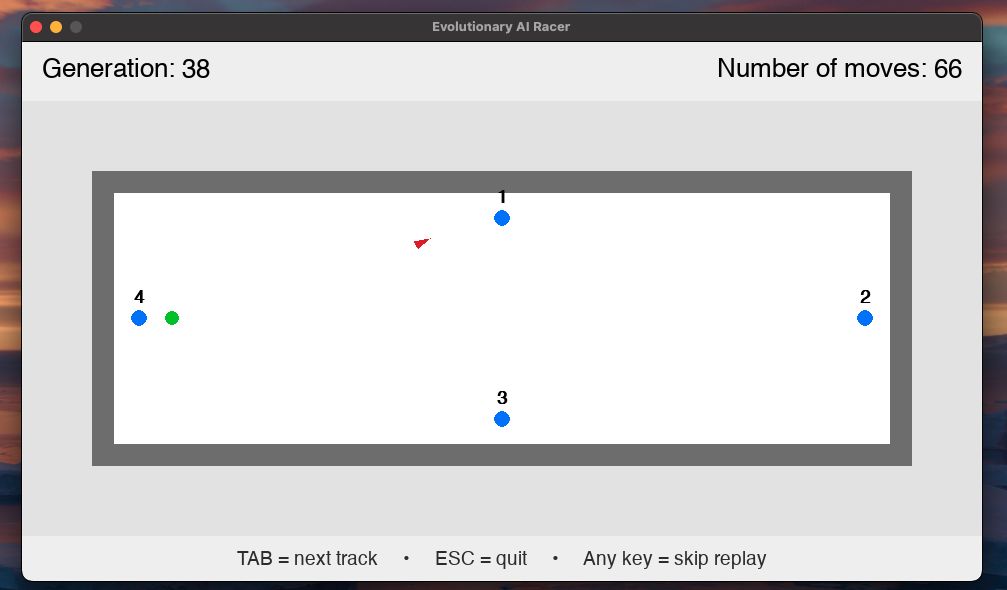
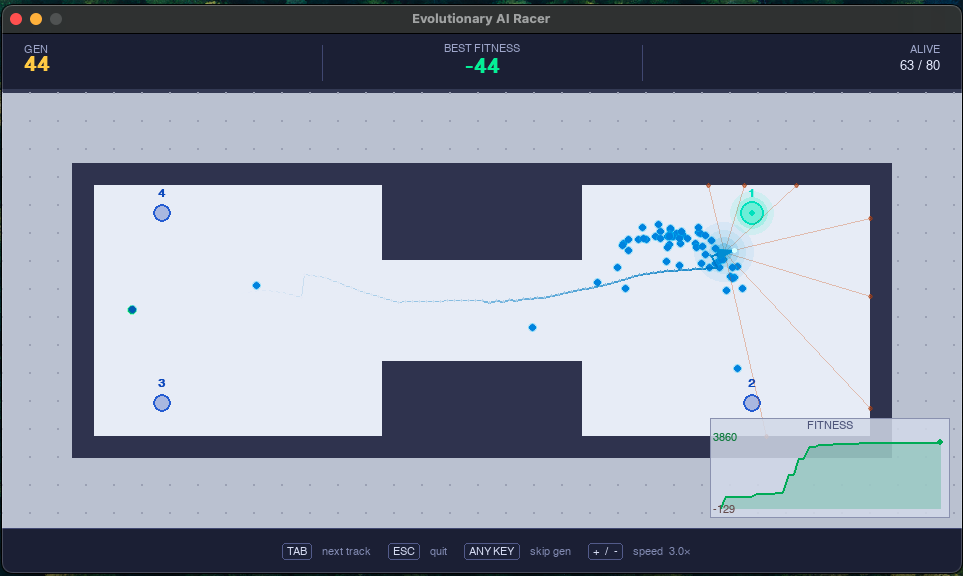
Rework UI to light theme with improved contrast and speed control

diff --git a/simulator.py b/simulator.py
@@ -2,6 +2,7 @@
 
 import math
 import pygame
+import pygame.gfxdraw
 from car import Car
 from config import (
     DT, REPLAY_FPS, MAX_SPEED, SIM_STEPS,
@@ -15,17 +16,17 @@ from config import (
 TOP_BAR_HEIGHT    = 60
 BOTTOM_BAR_HEIGHT = 45
 
-TOP_BAR_BG    = (9, 10, 20)
-BOTTOM_BAR_BG = (9, 10, 20)
-ACCENT_LINE   = (45, 48, 75)
+TOP_BAR_BG    = (30, 34, 60)
+BOTTOM_BAR_BG = (30, 34, 60)
+ACCENT_LINE   = (75, 80, 125)
 
-BEST_CAR_COLOR = (0, 200, 255)    # electric cyan
-TRAIL_COLOR    = (0, 160, 210)
+BEST_CAR_COLOR = (0, 150, 220)    # electric blue
+TRAIL_COLOR    = (0, 120, 200)
 
-TEXT_LIGHT  = (215, 220, 235)
-TEXT_MUTED  = (90, 95, 130)
-TEXT_ACCENT = (60, 240, 160)      # fitness
-TEXT_GEN    = (255, 200, 60)      # generation
+TEXT_LIGHT  = (235, 238, 255)
+TEXT_MUTED  = (170, 175, 210)
+TEXT_ACCENT = (50, 240, 155)      # fitness
+TEXT_GEN    = (255, 210, 55)      # generation
 
 MAX_TRAIL_LENGTH = 260
 
@@ -56,8 +57,8 @@ def nn_forward(genome, inputs):
 # ============================================================
 #  FULL POPULATION — LIVE SIMULATION + EVALUATION
 # ============================================================
-GHOST_COLOR      = (0, 55, 80)    # dim cyan for non-best alive cars
-GHOST_COLOR_FAST = (0, 90, 120)   # slightly brighter when moving well
+GHOST_COLOR      = (30, 100, 190)  # blue, visible on light track
+GHOST_COLOR_FAST = (40, 140, 230)  # brighter when moving well
 SIM_SPEED_MULT   = 3.0            # run sim at 3× real time (~33 sec/generation)
 
 
@@ -77,7 +78,12 @@ def _car_fitness(car, steps_alive, track):
 
 def _draw_ghost_car(surface, car):
     color = GHOST_COLOR_FAST if car.speed > 3.0 else GHOST_COLOR
-    pygame.draw.circle(surface, color, (int(car.x), int(car.y)), 2)
+    x, y = int(car.x), int(car.y)
+    pygame.gfxdraw.filled_circle(surface, x, y, 3, color)
+    pygame.gfxdraw.aacircle(surface, x, y, 3, color)
+    # Subtle outline so ghost cars read against dark asphalt
+    outline = (color[0], min(255, color[1] + 60), min(255, color[2] + 60))
+    pygame.gfxdraw.aacircle(surface, x, y, 4, (*outline, 80))
 
 
 def simulate_population_visual(screen, clock, track, population, generation, best_history):
@@ -93,13 +99,14 @@ def simulate_population_visual(screen, clock, track, population, generation, bes
     font_sm = pygame.font.SysFont("Helvetica", 13)
     font_xs = pygame.font.SysFont("Helvetica", 11)
 
-    step     = 0
-    time_acc = 0.0
-    skipped  = False
+    step      = 0
+    time_acc  = 0.0
+    skipped   = False
+    sim_speed = SIM_SPEED_MULT
 
     while step < SIM_STEPS:
         dt_real   = clock.tick(REPLAY_FPS) / 1000.0
-        time_acc += dt_real * SIM_SPEED_MULT
+        time_acc += dt_real * sim_speed
 
         # ── EVENTS ──────────────────────────────────────────────
         for event in pygame.event.get():
@@ -113,6 +120,10 @@ def simulate_population_visual(screen, clock, track, population, generation, bes
                 if event.key == pygame.K_TAB:
                     pygame.event.post(event)
                     skipped = True
+                elif event.key in (pygame.K_PLUS, pygame.K_EQUALS, pygame.K_KP_PLUS):
+                    sim_speed = min(10.0, round(sim_speed + 0.5, 1))
+                elif event.key in (pygame.K_MINUS, pygame.K_KP_MINUS):
+                    sim_speed = max(0.5, round(sim_speed - 0.5, 1))
                 else:
                     skipped = True
 
@@ -157,7 +168,7 @@ def simulate_population_visual(screen, clock, track, population, generation, bes
         live_fitness = _car_fitness(best_car, steps_alive[best_idx], track)
 
         # ── DRAW ────────────────────────────────────────────────
-        screen.fill((7, 8, 18))
+        screen.fill((195, 200, 215))
 
         # Top bar
         pygame.draw.rect(screen, TOP_BAR_BG,
@@ -165,21 +176,32 @@ def simulate_population_visual(screen, clock, track, population, generation, bes
         pygame.draw.line(screen, ACCENT_LINE,
                          (0, TOP_BAR_HEIGHT - 1), (SCREEN_WIDTH, TOP_BAR_HEIGHT - 1))
 
+        # Three equal thirds
+        third = SCREEN_WIDTH // 3
+        div1, div2 = third, third * 2
+
+        # Left third: generation (left-aligned)
         lbl_gen = font_xs.render("GEN", True, TEXT_MUTED)
         val_gen = font_lg.render(str(generation), True, TEXT_GEN)
-        screen.blit(lbl_gen, (22, 13))
-        screen.blit(val_gen, (22 + lbl_gen.get_width() + 5, 9))
+        screen.blit(lbl_gen, (22, 11))
+        screen.blit(val_gen, (22, 22))
 
+        # Dividers
+        pygame.draw.line(screen, ACCENT_LINE, (div1, 12), (div1, TOP_BAR_HEIGHT - 13))
+        pygame.draw.line(screen, ACCENT_LINE, (div2, 12), (div2, TOP_BAR_HEIGHT - 13))
+
+        # Middle third: best fitness (centred)
         mid     = SCREEN_WIDTH // 2
         lbl_fit = font_xs.render("BEST FITNESS", True, TEXT_MUTED)
         val_fit = font_lg.render(f"{live_fitness:.0f}", True, TEXT_ACCENT)
         screen.blit(lbl_fit, lbl_fit.get_rect(centerx=mid, top=10))
-        screen.blit(val_fit, val_fit.get_rect(centerx=mid, top=26))
+        screen.blit(val_fit, val_fit.get_rect(centerx=mid, top=24))
 
+        # Right third: alive count (right-aligned)
         lbl_alive = font_xs.render("ALIVE", True, TEXT_MUTED)
         val_alive = font_sm.render(f"{alive_count} / {n}", True, TEXT_LIGHT)
-        screen.blit(lbl_alive, lbl_alive.get_rect(right=SCREEN_WIDTH - 20, top=13))
-        screen.blit(val_alive, val_alive.get_rect(right=SCREEN_WIDTH - 20, top=30))
+        screen.blit(lbl_alive, lbl_alive.get_rect(right=SCREEN_WIDTH - 22, top=11))
+        screen.blit(val_alive, val_alive.get_rect(right=SCREEN_WIDTH - 22, top=26))
 
         _draw_progress_bar(screen, best_car, track)
 
@@ -204,6 +226,13 @@ def simulate_population_visual(screen, clock, track, population, generation, bes
                     (int(trail[j - 1][0]), int(trail[j - 1][1])),
                     (int(trail[j][0]),     int(trail[j][1])), w
                 )
+            # Smooth circle caps at each trail point
+            for j in range(nt):
+                frac  = (j + 1) / nt
+                alpha = int(210 * frac)
+                r     = max(1, int(1.5 * frac))
+                tx, ty = int(trail[j][0]), int(trail[j][1])
+                pygame.gfxdraw.filled_circle(trail_surf, tx, ty, r, (*TRAIL_COLOR, alpha))
             screen.blit(trail_surf, (0, 0))
 
         # Best car
@@ -221,7 +250,7 @@ def simulate_population_visual(screen, clock, track, population, generation, bes
         pygame.draw.line(screen, ACCENT_LINE,
                          (0, SCREEN_HEIGHT - BOTTOM_BAR_HEIGHT),
                          (SCREEN_WIDTH, SCREEN_HEIGHT - BOTTOM_BAR_HEIGHT))
-        _draw_key_hints(screen, font_xs)
+        _draw_key_hints(screen, font_xs, sim_speed)
 
         pygame.display.flip()
 
@@ -246,9 +275,15 @@ def _draw_progress_bar(surface, car, track):
         return
     progress = car.checkpoint_index / total
     bar_w    = int(progress * SCREEN_WIDTH)
+    # Track background rail
+    pygame.draw.rect(surface, (60, 65, 95),
+                     pygame.Rect(0, TOP_BAR_HEIGHT - 4, SCREEN_WIDTH, 4))
     if bar_w > 0:
-        pygame.draw.rect(surface, (0, 200, 120),
-                         pygame.Rect(0, TOP_BAR_HEIGHT - 3, bar_w, 3))
+        pygame.draw.rect(surface, (0, 210, 120),
+                         pygame.Rect(0, TOP_BAR_HEIGHT - 4, bar_w, 4))
+        # Bright leading edge
+        pygame.draw.rect(surface, (140, 255, 200),
+                         pygame.Rect(max(0, bar_w - 2), TOP_BAR_HEIGHT - 4, 2, 4))
 
 
 # ============================================================
@@ -257,19 +292,24 @@ def _draw_progress_bar(surface, car, track):
 def _draw_chart(surface, history, font):
     from config import CHART_WIDTH, CHART_HEIGHT
 
-    if len(history) < 2:
-        return
-
     pad = 10
     w, h = CHART_WIDTH, CHART_HEIGHT
     x0   = SCREEN_WIDTH  - w  - 12
     y0   = SCREEN_HEIGHT - BOTTOM_BAR_HEIGHT - h - 10
 
-    # Panel background
+    # Panel background (always drawn)
     bg = pygame.Surface((w, h), pygame.SRCALPHA)
-    bg.fill((6, 8, 18, 210))
+    bg.fill((215, 220, 235, 220))
     surface.blit(bg, (x0, y0))
-    pygame.draw.rect(surface, (40, 44, 72), pygame.Rect(x0, y0, w, h), 1)
+    pygame.draw.rect(surface, (150, 155, 185), pygame.Rect(x0, y0, w, h), 1)
+
+    title = font.render("FITNESS", True, (90, 95, 135))
+    surface.blit(title, (x0 + w // 2 - title.get_width() // 2, y0 + 2))
+
+    if len(history) < 2:
+        msg = font.render("waiting...", True, (140, 145, 175))
+        surface.blit(msg, msg.get_rect(centerx=x0 + w // 2, centery=y0 + h // 2))
+        return
 
     lo   = min(history)
     hi   = max(history)
@@ -289,19 +329,17 @@ def _draw_chart(surface, history, font):
                 + [(points[-1][0], y0 + h - pad)])
     local_pts = [(p[0] - x0, p[1] - y0) for p in fill_pts]
     fill_surf = pygame.Surface((w, h), pygame.SRCALPHA)
-    pygame.draw.polygon(fill_surf, (0, 180, 100, 35), local_pts)
+    pygame.draw.polygon(fill_surf, (0, 160, 90, 50), local_pts)
     surface.blit(fill_surf, (x0, y0))
 
     # Line
-    pygame.draw.lines(surface, (50, 210, 110), False, points, 2)
+    pygame.draw.lines(surface, (20, 180, 90), False, points, 2)
     # Endpoint dot
-    pygame.draw.circle(surface, (50, 210, 110), points[-1], 3)
+    pygame.draw.circle(surface, (20, 180, 90), points[-1], 3)
 
     # Labels
-    title  = font.render("FITNESS", True, (70, 75, 110))
-    hi_lbl = font.render(f"{hi:.0f}", True, (70, 140, 80))
-    lo_lbl = font.render(f"{lo:.0f}", True, (70, 75, 100))
-    surface.blit(title,  (x0 + w // 2 - title.get_width() // 2, y0 + 2))
+    hi_lbl = font.render(f"{hi:.0f}", True, (20, 130, 60))
+    lo_lbl = font.render(f"{lo:.0f}", True, (110, 85, 85))
     surface.blit(hi_lbl, (x0 + 3, y0 + 14))
     surface.blit(lo_lbl, (x0 + 3, y0 + h - lo_lbl.get_height() - 3))
 
@@ -309,11 +347,12 @@ def _draw_chart(surface, history, font):
 # ============================================================
 #  KEY HINTS
 # ============================================================
-def _draw_key_hints(surface, font):
-    hints   = [("TAB", "next track"), ("ESC", "quit"), ("ANY KEY", "skip")]
+def _draw_key_hints(surface, font, sim_speed=SIM_SPEED_MULT):
+    hints   = [("TAB", "next track"), ("ESC", "quit"), ("ANY KEY", "skip gen"),
+               ("+  /  -", f"speed  {sim_speed:.1f}×")]
     gap     = 22
-    rendered = [(font.render(k, True, (190, 195, 220)),
-                 font.render(d, True, (75, 78, 115))) for k, d in hints]
+    rendered = [(font.render(k, True, (220, 224, 245)),
+                 font.render(d, True, (145, 150, 190))) for k, d in hints]
 
     total_w = sum(ks.get_width() + 12 + ds.get_width() for ks, ds in rendered)
     total_w += gap * (len(hints) - 1)
@@ -324,8 +363,8 @@ def _draw_key_hints(surface, font):
         # Key cap badge
         kr    = ks.get_rect(centery=cy, left=x)
         badge = pygame.Rect(kr.left - 5, kr.top - 3, kr.width + 10, kr.height + 6)
-        pygame.draw.rect(surface, (28, 30, 52), badge, border_radius=3)
-        pygame.draw.rect(surface, (60, 65, 100), badge, 1, border_radius=3)
+        pygame.draw.rect(surface, (32, 36, 65), badge, border_radius=3)
+        pygame.draw.rect(surface, (95, 100, 150), badge, 1, border_radius=3)
         surface.blit(ks, kr)
         x += badge.width + 5
         # Description

diff --git a/car.py b/car.py
@@ -2,6 +2,7 @@
 
 import math
 import pygame
+import pygame.gfxdraw
 from config import (
     DT, MAX_SPEED, ACCEL, FRICTION, TURN_RATE,
     CAR_WIDTH, CAR_LENGTH, SCREEN_WIDTH, SCREEN_HEIGHT, CAR_COLOR,
@@ -111,13 +112,14 @@ class Car:
             end_y = self.y + math.sin(angle) * dist
             hit   = dist < MAX_RAY_DIST - 1
 
-            line_color = (255, 130, 50, 35) if hit else (60, 190, 255, 18)
+            line_color = (200, 80, 10, 70) if hit else (20, 100, 190, 45)
             pygame.draw.line(overlay, line_color,
                              (int(self.x), int(self.y)),
                              (int(end_x), int(end_y)), 1)
             if hit:
-                pygame.draw.circle(overlay, (255, 150, 70, 160),
-                                   (int(end_x), int(end_y)), 2)
+                ex, ey = int(end_x), int(end_y)
+                pygame.gfxdraw.filled_circle(overlay, ex, ey, 2, (210, 90, 20, 200))
+                pygame.gfxdraw.aacircle(overlay, ex, ey, 2, (210, 90, 20, 200))
         surface.blit(overlay, (0, 0))
 
     def draw(self, surface, color=CAR_COLOR):
@@ -138,7 +140,11 @@ class Car:
             pygame.draw.circle(glow, (*color, a), (32, 32), r)
         surface.blit(glow, (ix - 32, iy - 32))
 
-        # Car body
-        pygame.draw.polygon(surface, color, [p1, p2, p3])
+        # Car body (anti-aliased)
+        pts = [(int(p[0]), int(p[1])) for p in [p1, p2, p3]]
+        pygame.gfxdraw.filled_polygon(surface, pts, color)
+        pygame.gfxdraw.aapolygon(surface, pts, color)
         # Bright highlight at the nose
-        pygame.draw.circle(surface, (220, 255, 255), (int(p1[0]), int(p1[1])), 2)
+        nx, ny = int(p1[0]), int(p1[1])
+        pygame.gfxdraw.filled_circle(surface, nx, ny, 2, (220, 255, 255))
+        pygame.gfxdraw.aacircle(surface, nx, ny, 2, (220, 255, 255))

diff --git a/track.py b/track.py
@@ -17,7 +17,7 @@ TRACK_MARGIN    = 70
 WALL_THICKNESS  = 22
 
 _DOT_SPACING = 28
-_DOT_COLOR   = (18, 20, 38)   # subtle grid dots in the off-road void
+_DOT_COLOR   = (165, 170, 188)  # subtle grid dots in the off-road void
 
 
 class Track:
@@ -51,7 +51,7 @@ class Track:
         pygame.draw.rect(surface, DRIVEABLE_COLOR, road_rect)
 
         # Subtle road border
-        pygame.draw.rect(surface, (55, 58, 90), road_rect, 1)
+        pygame.draw.rect(surface, (170, 175, 195), road_rect, 1)
 
         # ── WALLS ───────────────────────────────────────────────
         for w in self.walls:
@@ -85,12 +85,13 @@ class Track:
                 label_color = ring_color
 
             elif is_done:
-                pygame.draw.circle(surface, (45, 65, 55), (cx, cy), 9, 1)
-                label_color = (50, 80, 65)
+                pygame.draw.circle(surface, (150, 210, 175), (cx, cy), 9, 1)
+                label_color = (60, 140, 95)
 
             else:
-                pygame.draw.circle(surface, CHECKPOINT_COLOR, (cx, cy), 9, 2)
-                label_color = CHECKPOINT_COLOR
+                pygame.draw.circle(surface, (180, 190, 230), (cx, cy), 9)
+                pygame.draw.circle(surface, (60, 100, 220), (cx, cy), 9, 2)
+                label_color = (40, 80, 200)
 
             lbl = font.render(str(i + 1), True, label_color)
             surface.blit(lbl, lbl.get_rect(centerx=cx, bottom=cy - 14))

diff --git a/config.py b/config.py
@@ -4,13 +4,13 @@
 SCREEN_WIDTH = 960
 SCREEN_HEIGHT = 540
 
-BACKGROUND_COLOR = (7, 8, 18)         # off-track void
-DRIVEABLE_COLOR  = (24, 26, 42)       # dark asphalt
-WALL_COLOR       = (50, 52, 78)       # kerb
-ROAD_EDGE_COLOR  = (90, 95, 140)      # road boundary line
-CHECKPOINT_COLOR = (35, 85, 200)      # inactive ring
-START_COLOR      = (0, 210, 110)
-CAR_COLOR        = (0, 200, 255)      # electric cyan
+BACKGROUND_COLOR = (195, 200, 215)    # off-track: cool light gray
+DRIVEABLE_COLOR  = (235, 238, 248)    # road surface: near-white
+WALL_COLOR       = (55, 58, 90)       # walls: dark slate
+ROAD_EDGE_COLOR  = (170, 175, 195)    # road boundary line
+CHECKPOINT_COLOR = (50, 100, 230)     # inactive ring
+START_COLOR      = (0, 190, 100)
+CAR_COLOR        = (0, 160, 230)      # electric blue
 
 CELL = 30
 
